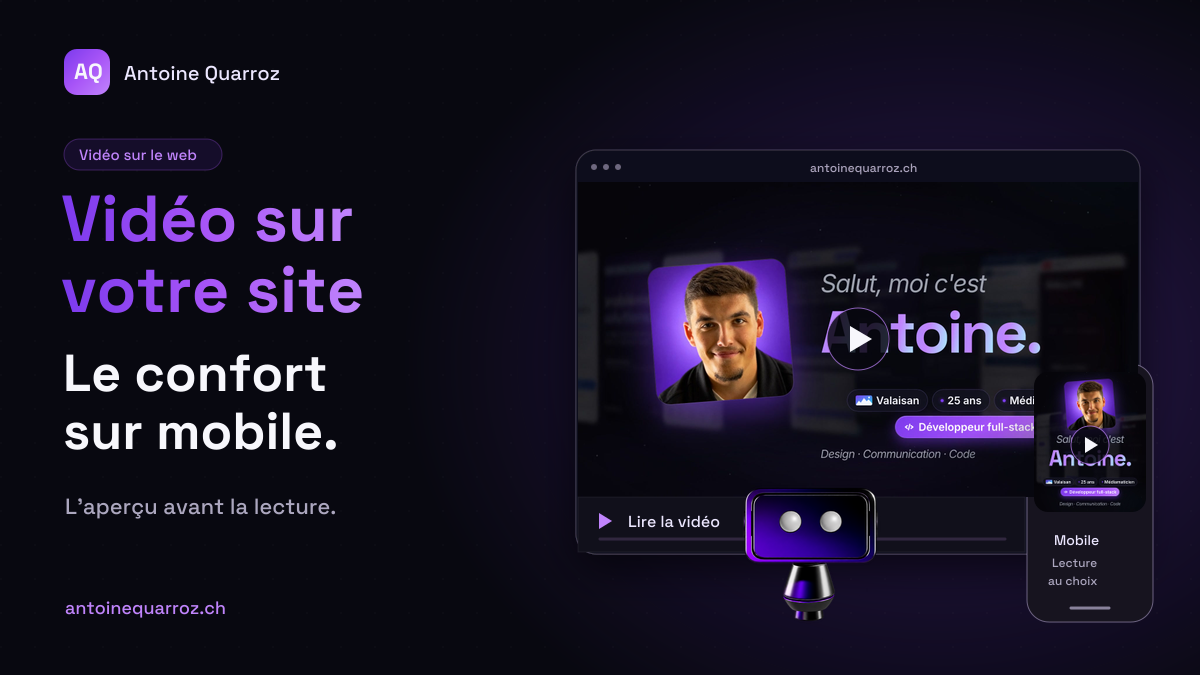
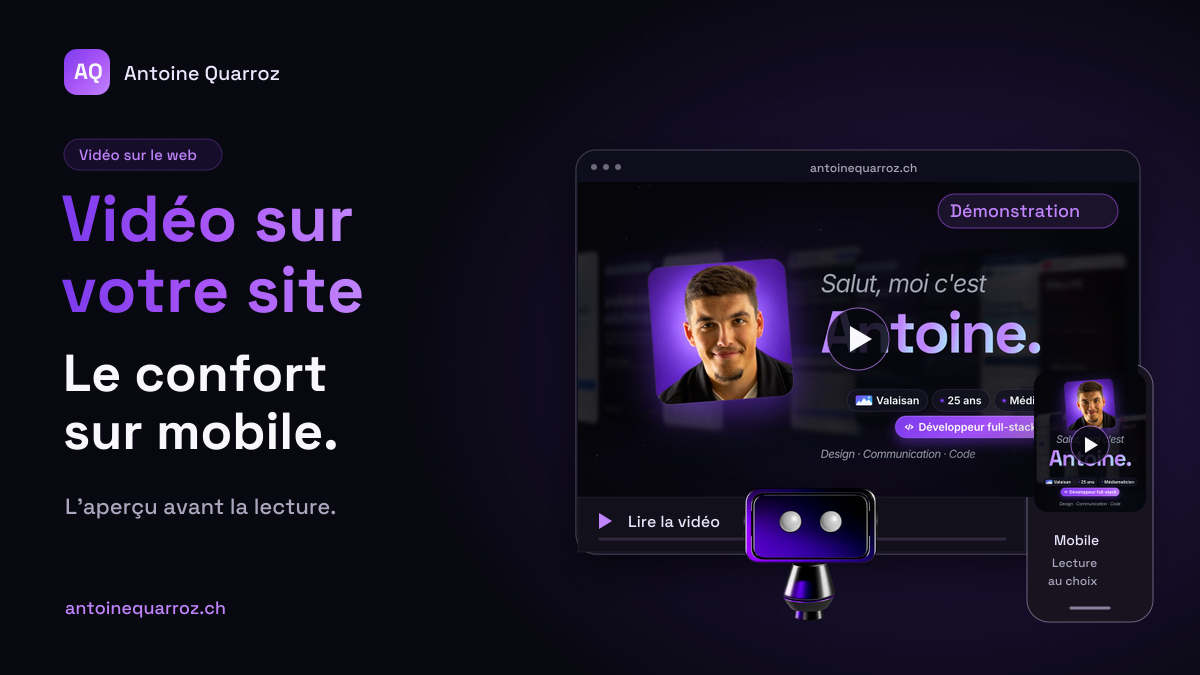
content: publish the mobile video guide and queue review drafts (#291)

Changed region(s): [[0.7708, 0.28, 0.9558, 0.3422]]

diff --git a/seo/covers/brand-violet/build.py b/seo/covers/brand-violet/build.py
@@ -134,6 +134,10 @@ def video():
     over += text('Lecture',1052,567,12,'#aca7bf',500)
     over += text('au choix',1048,585,12,'#aca7bf',500)
     over += '<path d="M1071 608h38" stroke="#89829b" stroke-width="3" stroke-linecap="round"/>'
+    # Authentic posters are framed by illustrative controls, not a screenshot
+    # of the live player. Keep this disclosure above the raster image layers.
+    over += rect(938,194,180,34,fill='#1b132b',stroke='#a855f7',radius=17,opacity='.6')
+    over += text('Démonstration',950,217,18,'#c084fc',500,156)
     return s, images, over, {'x':699,'y':448,'width':225,'height':204}
 
 def maintenance():
@@ -213,7 +217,7 @@ def dashboard():
     return s, [], '', {'x':699,'y':463,'width':225,'height':204}
 
 ARTICLES = [
-    {'number':'037','date':'2026-10-19','title':'Vidéo sur votre site : limiter le poids et préserver le confort sur mobile','badge':'Vidéo sur le web','badge_width':158,'title_lines':['Vidéo sur','votre site'],'subtitle_lines':['Le confort','sur mobile.'],'detail_lines':['L’aperçu avant la lecture.'],'visual':video,'illustration':'Actual public AboutVideo landscape and portrait posters, with illustrative player chrome. No performance measurements.'},
+    {'number':'037','date':'2026-10-19','title':'Vidéo sur votre site : limiter le poids et préserver le confort sur mobile','badge':'Vidéo sur le web','badge_width':158,'title_lines':['Vidéo sur','votre site'],'subtitle_lines':['Le confort','sur mobile.'],'detail_lines':['L’aperçu avant la lecture.'],'visual':video,'illustration':'Actual public AboutVideo landscape and portrait posters, with illustrative player chrome explicitly labeled Démonstration. No performance measurements.'},
     {'number':'038','date':'2026-10-20','title':'Votre site est en ligne : la checklist mensuelle pour le garder fiable','badge':'Maintenance','badge_width':139,'title_lines':['Votre site','en ligne'],'subtitle_lines':['La routine','qui compte.'],'detail_lines':['Formulaire, liens, sauvegarde.'],'visual':maintenance,'illustration':'Fictitious monthly checklist with unchecked controls; explicitly labeled Démonstration. No actual client verification claimed.'},
     {'number':'039','date':'2026-10-21','title':'Après une refonte : repérer les liens cassés et les mauvaises redirections','badge':'Après la refonte','badge_width':159,'title_lines':['Après la','refonte'],'subtitle_lines':['Liens cassés :','les repérer.'],'detail_lines':['De l’ancienne URL','à la bonne destination.'],'visual':redirects,'illustration':'Illustrative SVG before/after flow with fictitious exemple.test URL, 404, 301 and 200; labeled Démonstration and URL fictives.'},
     {'number':'040','date':'2026-10-22','title':'Devis, documents et validations : quand un espace client devient utile','badge':'Application web','badge_width':163,'title_lines':['Un espace','client'],'subtitle_lines':['Pour suivre','votre projet.'],'detail_lines':['Documents, versions, validations.'],'visual':portal,'illustration':'Entirely fictitious client portal SVG, labeled Démonstration and Exemple entièrement fictif; no client name, address or amount.'},

diff --git a/seo/articles/37-video-site-limiter-poids-confort-mobile.md b/seo/articles/37-video-site-limiter-poids-confort-mobile.md
@@ -1,0 +1,104 @@
+## En bref
+
+Pour intégrer une vidéo sur votre site sans imposer son chargement à chaque visiteur, séparez trois choses : l’image d’aperçu, le fichier à lire et les commandes du lecteur. Préparez une version adaptée au téléphone, choisissez quand la vidéo doit être demandée et vérifiez le résultat sur une connexion limitée. Une compression plus forte ne garantit pas une qualité identique : le bon compromis se juge aussi à l’écran.
+
+Sur ma page d’accueil, ma présentation dure environ cinquante secondes. Ce cas permet d’expliquer des choix concrets d’intégration, sans avancer ici de gain de vitesse ou de score non mesuré.
+
+## 1. Que doit voir le visiteur avant de lancer la vidéo ?
+
+Commencez par définir le rôle de la vidéo. Présente-t-elle votre activité, une réalisation ou une démonstration ? Le visiteur doit comprendre ce qu’il va regarder, puis pouvoir continuer sa visite sans la lire.
+
+Pour ma présentation, le titre et l’aperçu donnent un premier repère. Le lecteur propose ensuite la lecture, la pause, le son et les sous-titres. L’explication de mes services reste disponible ailleurs sur la page : la vidéo complète le parcours.
+
+Réservez aussi la place du média dès l’affichage. Cela évite que l’arrivée de l’image ou des premières images du film déplace les éléments voisins. Un format paysage sur ordinateur et un cadrage portrait sur téléphone peuvent répondre à des besoins différents ; vérifiez que les textes et les visages restent visibles.
+
+L’attribut HTML `poster` désigne une image d’attente. Une image d’aperçu distincte peut aussi être utilisée par le composant du site. Les attributs `width` et `height`, ou une zone correctement dimensionnée, servent à stabiliser la mise en page. [MDN détaille ces mécanismes du lecteur vidéo](https://developer.mozilla.org/en-US/docs/Web/HTML/Reference/Elements/video).
+
+## 2. Quand le fichier vidéo doit-il être demandé ?
+
+Une vidéo placée plus bas dans la page n’a pas forcément besoin de mobiliser la connexion dès l’arrivée. À l’inverse, différer systématiquement le visuel principal du premier écran peut retarder ce que le visiteur attend de voir.
+
+Le guide [web.dev sur le chargement différé des vidéos](https://web.dev/articles/lazy-loading-video) distingue ces situations. Il décrit notamment `loading="lazy"`, là où cet attribut est pris en charge, et les solutions qui déclenchent le chargement à l’approche du média. Le support navigateur doit être vérifié avant d’en faire l’unique mécanisme.
+
+`preload="none"` demande au navigateur de ne pas précharger la vidéo. C’est une indication, pas une garantie de zéro octet : le navigateur et les autres choix de lecture interviennent aussi. Une lecture automatique doit, par définition, obtenir les données nécessaires à son démarrage.
+
+Dans le composant de ma présentation, la source du film est attribuée au moment où la lecture est demandée. Un aperçu adapté au format est affiché auparavant. La lecture automatique sans son peut être tentée quand la vidéo entre dans la zone visible ; un bouton permet de la lancer si le navigateur la refuse. Ce comportement ne revient donc pas à attendre systématiquement un clic.
+
+Voici une grille de décision à utiliser avec la personne qui réalise votre site :
+
+| Situation | Choix à examiner | Vérification utile |
+|---|---|---|
+| Vidéo secondaire sous les premières sections | Aperçu puis chargement différé | Le film est-il demandé avant d’être utile ? |
+| Visuel essentiel dès l’arrivée | Aperçu prioritaire et visible rapidement | Le premier écran reste-t-il compréhensible pendant l’attente ? |
+| Lecture lancée uniquement par le visiteur | Préchargement limité et bouton explicite | Le clic fonctionne-t-il sur un téléphone et une connexion lente ? |
+
+Cette grille sert à choisir un comportement, pas à promettre un temps de chargement universel.
+
+## 3. Comment préparer une version mobile sans abîmer la présentation ?
+
+Gardez un fichier source de bonne qualité et préparez les exports destinés au site à partir de celui-ci. Évitez de recompresser successivement un export déjà dégradé.
+
+La documentation [web.dev sur les performances vidéo](https://web.dev/learn/performance/video-performance) distingue le conteneur, par exemple MP4, du codec qui compresse le contenu. Changer une extension ne constitue pas à lui seul une optimisation. Résolution, encodage et piste sonore se choisissent selon l’usage et les navigateurs visés.
+
+Pour relire votre version mobile, je propose de comparer les deux exports sur le même téléphone :
+
+- Les petits caractères restent-ils lisibles pendant la lecture ?
+- Les mouvements et les dégradés montrent-ils des défauts gênants ?
+- Le recadrage coupe-t-il une information utile ?
+- La voix reste-t-elle compréhensible lorsqu’on active le son ?
+
+Si une séquence n’apporte rien au message, la raccourcir est aussi un choix éditorial. Si elle porte une information indispensable, mieux vaut retravailler sa présentation que la rendre illisible pour alléger le fichier.
+
+Sur mon site, le composant choisit une source portrait ou paysage avant la première lecture. Il conserve ensuite cette source lorsqu’on redimensionne la fenêtre, afin de ne pas changer de fichier au milieu du film. C’est un choix de continuité de lecture ; ce n’est pas une mesure de performance.
+
+## 4. Comment préserver le confort et l’accès au contenu ?
+
+Le son doit rester un choix clair. Une vidéo lancée sans son ne dispense pas d’expliquer son contenu, et enlever les sous-titres pour alléger visuellement le lecteur peut priver une personne d’une information essentielle.
+
+Le [guide audio et vidéo du W3C WAI](https://www.w3.org/WAI/media/av/) distingue sous-titres, transcription et description des informations visuelles. Les besoins dépendent du contenu. Un sous-titre doit notamment transmettre les paroles et les sons utiles à la compréhension ; une transcription peut permettre de consulter l’information autrement qu’en regardant le film.
+
+Dans ma présentation, les commandes permettent d’activer le son et les sous-titres français. La lecture peut être interrompue. Le composant tient aussi compte de la préférence de réduction des animations et du mode d’économie de données lorsqu’il est exposé par le navigateur, avant de tenter une lecture automatique.
+
+Lors de votre recette, parcourez les commandes au clavier, vérifiez leur nom et essayez une pause après un démarrage automatique. Assurez-vous également que le lecteur reste utilisable sur le petit écran : le visiteur doit voir le contenu et pouvoir retrouver les commandes.
+
+Le même soin doit accompagner la suite du parcours, notamment le [formulaire de contact et sa confirmation d’envoi](/blog/formulaire-contact-details-vraie-demande). Regarder une vidéo ne devrait pas être une condition pour comprendre comment vous joindre.
+
+## 5. Comment vérifier l’effet réel sur votre site ?
+
+Une recette reproductible vaut mieux qu’une impression obtenue uniquement sur votre connexion habituelle. Pour comparer deux intégrations, notez la date, l’appareil, le navigateur, la page et les conditions réseau utilisées.
+
+Le [panneau Réseau de Chrome DevTools](https://developer.chrome.com/docs/devtools/network/) permet de consulter les requêtes, de simuler une connexion plus lente et de tester un premier chargement sans profiter des fichiers déjà en cache. Une simulation aide au diagnostic ; complétez-la avec un téléphone réel.
+
+Je propose de suivre ces cinq étapes :
+
+1. Ouvrir la page sans descendre immédiatement jusqu’à la vidéo.
+2. Observer l’arrivée du titre, de l’aperçu et des informations importantes.
+3. Relever quand le fichier vidéo est demandé et le volume transféré à cette étape.
+4. Aller jusqu’au lecteur, lancer ou interrompre la lecture, puis essayer le son et les sous-titres.
+5. Refaire le même parcours après la modification, dans les mêmes conditions, en conservant les relevés.
+
+Contrôlez séparément l’affichage initial et le confort une fois la vidéo lancée. Une page peut afficher rapidement son aperçu tout en proposant une lecture qui se bloque ensuite. Inversement, un film fluide sur votre réseau ne prouve pas que la page se charge correctement pour tous les visiteurs.
+
+Ce guide décrit une méthode de choix et de contrôle. Il ne fournit pas une mesure avant/après de ma page d’accueil, ni une garantie de score pour votre site.
+
+## Questions fréquentes
+
+### Faut-il supprimer toute lecture automatique ?
+
+Le choix dépend du rôle du média. Pour une présentation secondaire, un aperçu et une action volontaire sont une option simple à examiner. Si une lecture automatique est retenue, prévoyez une pause accessible, le son maîtrisé et un bouton de lecture de secours.
+
+### Existe-t-il un poids idéal pour toutes les vidéos ?
+
+Un seul seuil ne suffit pas à décrire votre cas. La durée, la taille d’affichage, les détails à lire, le réseau et le moment du téléchargement comptent. Définissez un budget avec votre développeur, puis vérifiez le fichier et le parcours réels.
+
+### Une vidéo remplace-t-elle les textes de la page ?
+
+Gardez dans la page les informations nécessaires pour comprendre votre offre et vous contacter. La vidéo peut montrer votre travail ; les textes et les autres moyens d’accès au contenu permettent de poursuivre la visite à son rythme.
+
+## Préparer une intégration adaptée à votre site
+
+Vous avez une vidéo à intégrer ou une présentation qui manque de confort sur téléphone ? Nous pouvons examiner son rôle, son aperçu, ses fichiers et ses commandes avant de choisir ce qui mérite d’être modifié.
+
+Découvrez mon accompagnement pour la [création de sites internet en Valais](/creation-site-internet-valais), ou [parlons de votre projet](/#contact-form). L’objectif est de préparer une intégration cohérente avec votre contenu et vos visiteurs, puis de vérifier ce qu’elle change réellement.
+
+Sources techniques consultées le 19 octobre 2026.

diff --git a/.codex/geo/queue/notes.md b/.codex/geo/queue/notes.md
@@ -1,5 +1,7 @@
 # Notes de production
 
[1 lines of base64/hex data omitted]
+
 - 2026-10-18 — article-036 : publication via l’API Hermes restreinte, id CMS 41, le 18 octobre à 17:02:40 Europe/Zurich ; preuve publique complète à 17:05:15. HTTP 200, titre et extrait, contenu SSR et citation exacte, canonical, BlogPosting, sitemap, liens entrants depuis le blog et le hub Création de site, PNG 1200 × 675 et hash de couverture vérifiés. Le contenu de l’API publique correspond au Markdown/JSON relu après suppression du seul saut final par le serveur. L’item 036 est coché après cette preuve, consignée dans `seo/receipts/2026-10-18-article-036-public.json`. Les deux textes sociaux sont préparés en `A_VALIDER`, avec URL canonique et UTM contrôlés ; la synchronisation privée et la validation sociale restent séparées. Les sujets 037–041 et leurs dates du 19 au 23 octobre sont validés ; les briefs, méthodes locales et couvertures dédiées sont préparés pour leurs passages naturels. Aucun prochain article n’est déclaré publié, aucune mission n’est déclenchée pour ce contrôle.
 
 - 2026-10-16 : article-035 publié à 06:35 Europe/Zurich via l’API Hermes restreinte, depuis un worktree propre de `origin/main` e44ae49. Anti-doublon public immédiatement avant l’envoi, couverture originale générée nativement et vérifiée en 1200 × 675, sources primaires et liens contrôlés. Article id 40. Brouillons LinkedIn et X créés avec clés stables, relus dans la base en `draft`, mode `manual`, v1, sans approbation ni échéance. Les UTM restent injectés par le flux de publication existant. Aucune mission déclenchée ; aucun message social publié.

diff --git a/.codex/geo/content-inventory.md b/.codex/geo/content-inventory.md
@@ -92,3 +92,7 @@ Aucune parmi les 31 articles de ce périmètre : chaque article est accessible d
 ## Publication du 18 octobre 2026
 
 - Article 036 : [PhysioBaur : un site pensé pour ses patients, du premier clic au contact](https://www.antoinequarroz.ch/blog/physiobaur-site-patients-premier-clic-contact) : public le 18 octobre à 17:02:40 Europe/Zurich, id CMS 41 ; vérifié à 17:05:15. Étude de la réalisation à partir de la fiche projet publique, du site du cabinet et du témoignage exact de Christophe Baur, avec recommandations de rédaction W3C WAI. La prise de rendez-vous est décrite comme un accès au contact ; aucun résultat commercial ou médical mesuré n’est inventé. Page HTTP 200, titre, extrait et corps SSR, canonical, BlogPosting, sitemap et couverture native PNG 1200 × 675 contrôlés. Le hash public correspond à la couverture relue et au manifeste. Liens entrants réels depuis `/blog` et `/creation-site-internet-valais`, liens contextuels vers ce hub, la fiche projet, le cadrage et le formulaire de contact. Reçu : `seo/receipts/2026-10-18-article-036-public.json`. Les deux textes sociaux locaux restent `A_VALIDER` ; leur suivi dans la file privée est distinct de cette preuve publique.
+
+## Publication du 19 octobre 2026
+
+- Article 037 : [Vidéo sur votre site : limiter le poids et préserver le confort sur mobile](https://www.antoinequarroz.ch/blog/video-site-limiter-poids-confort-mobile) : public à 07:47 Europe/Zurich, id CMS 42 ; vérification finale à 07:50. Guide fondé sur la présentation publique et son composant, avec aperçu, chargement, version mobile, commandes et recette reproductible ; aucun gain de performance inventé. Cinq sources primaires relues, huit cibles externes/internes HTTP 200, corps SSR/API identiques, canonical, BlogPosting et sitemap vérifiés. Couverture violette dédiée avec « Démonstration » sur le lecteur illustratif, PNG 1200 × 675 et SHA conforme au manifeste réconcilié. Liens entrants observés depuis le blog et le hub Création de site. Deux brouillons LinkedIn/X relus en `draft` / `manual` / v1, sans programmation ni approbation. Reçu : `seo/receipts/2026-10-19-article-037-public.json` ; readback social séparé.

diff --git a/seo/social/a-valider/video-site-limiter-poids-confort-mobile-linkedin.md b/seo/social/a-valider/video-site-limiter-poids-confort-mobile-linkedin.md
@@ -1,0 +1,21 @@
+---
+platform: linkedin
+statut: A_VALIDER
+article_url: https://www.antoinequarroz.ch/blog/video-site-limiter-poids-confort-mobile
+article_title: "37. Vidéo sur votre site : limiter le poids et préserver le confort sur mobile"
+date: 2026-10-19
+---
+
+Une vidéo sur votre site, ça se prépare aussi avant d’appuyer sur « lecture ». 📱
+
+Pour ma présentation de 50 secondes, j’ai séparé l’aperçu du fichier vidéo. Le composant choisit une source portrait ou paysage avant la première lecture, démarre sans son et laisse la main sur la pause et les sous-titres.
+
+Le point à vérifier : à quel moment votre site commence-t-il à demander le film ? Dès l’arrivée sur la page, quand on approche de la vidéo ou après un clic ?
+
+Compresser le fichier compte. Choisir quand il se charge et garder des commandes utilisables compte aussi.
+
+J’en ai fait un guide avec les choix possibles et une recette à reproduire sur téléphone. Je n’y annonce pas de gain de vitesse sans mesure avant/après.
+
+👉 https://www.antoinequarroz.ch/blog/video-site-limiter-poids-confort-mobile
+
+Sur votre site, la vidéo sert surtout à présenter votre activité ou à montrer une réalisation ?

diff --git a/.codex/geo/queue/semaine-2026-10-19.md b/.codex/geo/queue/semaine-2026-10-19.md
@@ -8,7 +8,7 @@
 # Sélection : respecter la date Europe/Zurich ; ne jamais avancer un sujet ni réutiliser un article déjà public. Ne cocher qu’après preuve publique.
 
 - [x] article-036 | PhysioBaur : un site pensé pour ses patients, du premier clic au contact | cluster : Création de site | date prévue : 2026-10-18
-- [ ] article-037 | Vidéo sur votre site : limiter le poids et préserver le confort sur mobile | cluster : Création de site | date prévue : 2026-10-19
+- [x] article-037 | Vidéo sur votre site : limiter le poids et préserver le confort sur mobile | cluster : Création de site | date prévue : 2026-10-19
 - [ ] article-038 | Votre site est en ligne : la checklist mensuelle pour le garder fiable | cluster : Maintenance | date prévue : 2026-10-20
 - [ ] article-039 | Après une refonte : repérer les liens cassés et les mauvaises redirections | cluster : Refonte | date prévue : 2026-10-21
 - [ ] article-040 | Devis, documents et validations : quand un espace client devient utile | cluster : Outils métier | date prévue : 2026-10-22

diff --git a/seo/covers/brand-violet/README.md b/seo/covers/brand-violet/README.md
@@ -14,7 +14,7 @@ Les cinq dates et titres de référence proviennent de `seo/resources/editorial/
 - `manifest-037-041.json` : provenance, dimensions, poids et SHA256 des cinq couvertures seulement.
 - `review-037-041.json` : revue visuelle des cinq PNG identifiés par SHA256. Le build ne reprend le statut « passed » que si les fichiers reconstruits correspondent exactement aux empreintes relues.
 
-Les visuels 038–041 sont des illustrations SVG entièrement fictives portant « Démonstration ». Les contrôles de lecture de 037 sont illustratifs ; l’affiche vidéo est réelle. Aucune performance, validation, donnée privée ou vérification de site client n’est affirmée.
+Les visuels 038–041 sont des illustrations SVG entièrement fictives portant « Démonstration ». Les contrôles de lecture de 037 sont illustratifs et portent visiblement « Démonstration » depuis la revue du 19 octobre ; les affiches vidéo sont réelles. Aucune performance, validation, donnée privée ou vérification de site client n’est affirmée.
 
 ## Reproduction
 

diff --git a/seo/social/a-valider/video-site-limiter-poids-confort-mobile-x.md b/seo/social/a-valider/video-site-limiter-poids-confort-mobile-x.md
@@ -1,0 +1,11 @@
+---
+platform: x
+statut: A_VALIDER
+article_url: https://www.antoinequarroz.ch/blog/video-site-limiter-poids-confort-mobile
+article_title: "37. Vidéo sur votre site : limiter le poids et préserver le confort sur mobile"
+date: 2026-10-19
+---
+
+Votre vidéo se charge avant d’être visible ? 📱
+Mon guide pour vérifier 👇
+https://www.antoinequarroz.ch/blog/video-site-limiter-poids-confort-mobile
